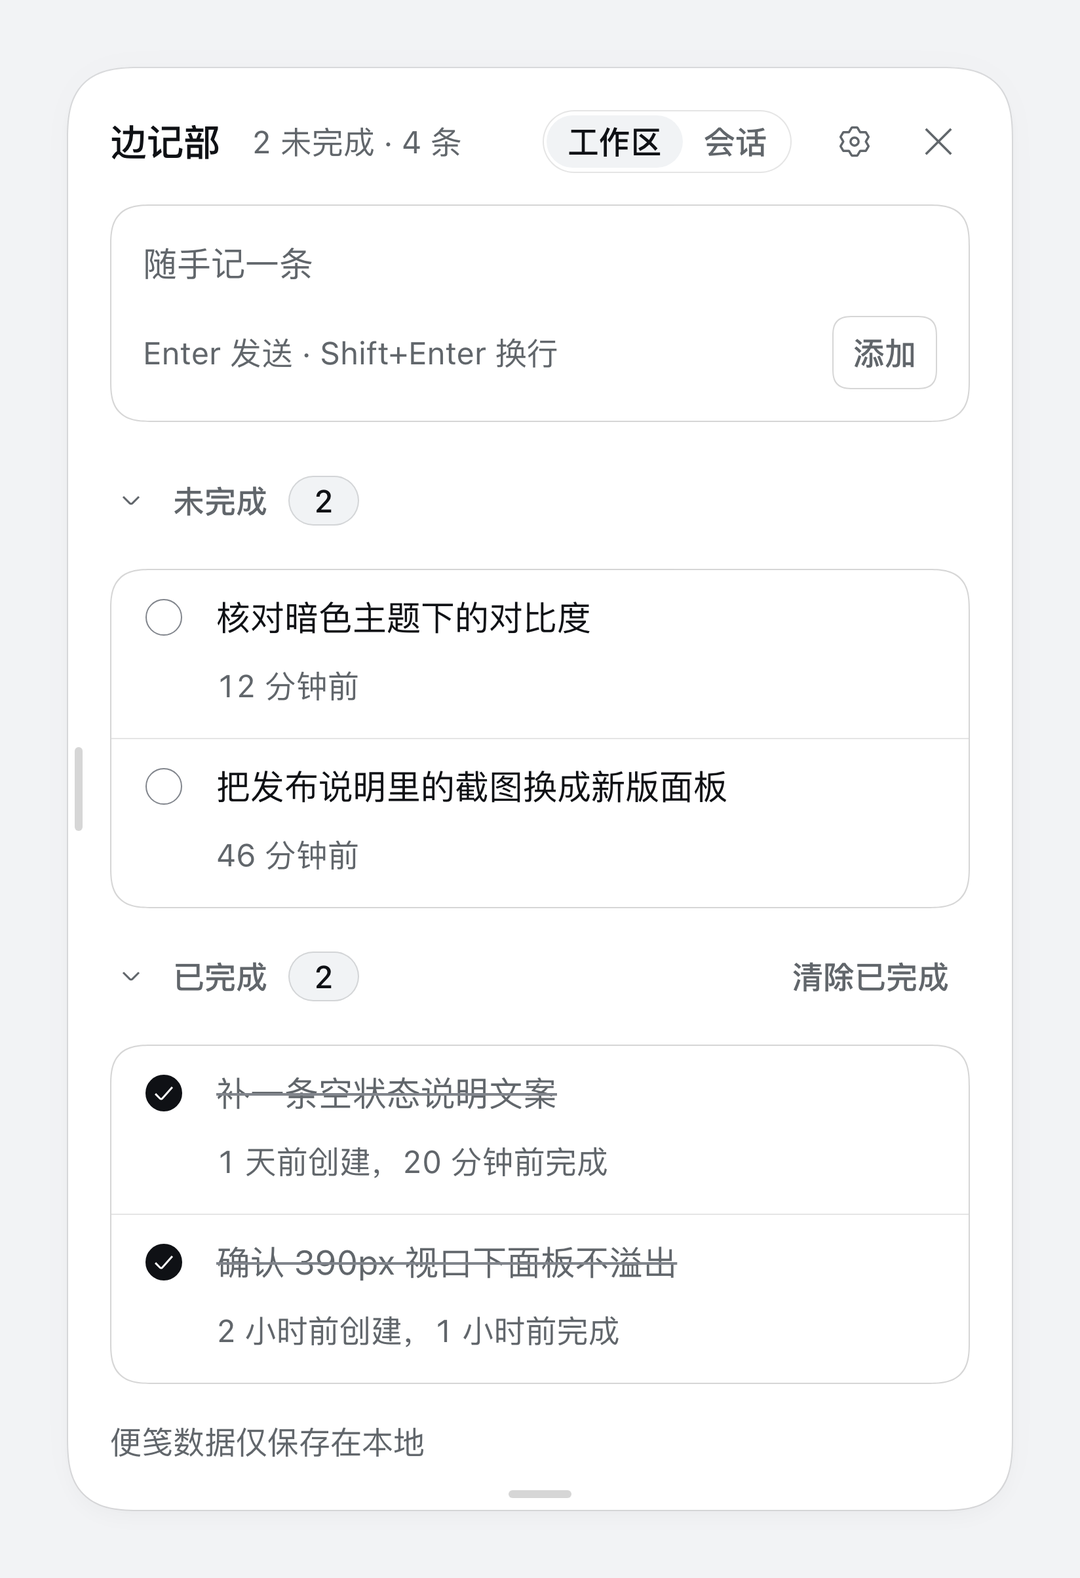
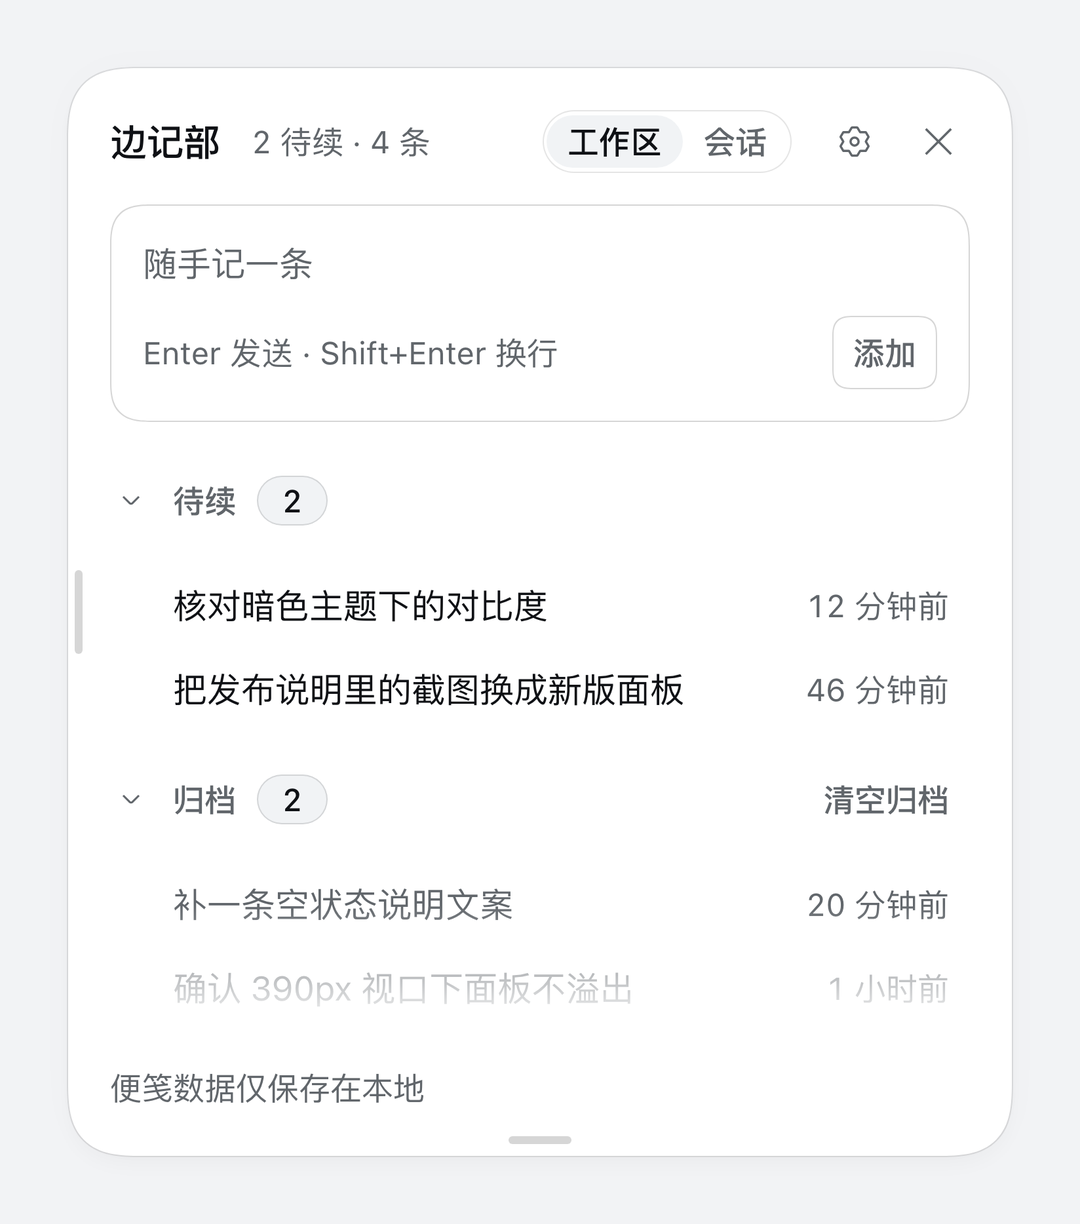
docs: refresh screenshots for the prefix-free settings card

diff --git a/docs/screenshot-sop.md b/docs/screenshot-sop.md
@@ -81,10 +81,10 @@ npm test
 
 | 状态 | 触发方式 | 面板高度 |
 | --- | --- | --- |
-| `panel` | 打开面板，展开「待续」「归档」，列表滚到顶 | 550 |
-| `settings` | 先折叠两个分区，再点标题右侧设置按钮 | 638 |
-| `actions` | 鼠标移到第一条便笺上，显示把手与退回/复制/递入对话 | 550 |
-| `clear` | 点「清空归档」，出现二次确认条 | 603 |
+| `panel` | 打开面板，展开「待续」「归档」，列表滚到顶 | 415 |
+| `settings` | 先折叠两个分区，再点标题右侧设置按钮 | 506 |
+| `actions` | 鼠标移到第一条便笺上，显示把手与退回/复制/递入对话 | 415 |
+| `clear` | 点「清空归档」，出现二次确认条 | 468 |
 | `empty` | 临时清空两个便笺 store（会话 + 工作区）并刷新，打开面板 | 381 |
 
 1.1.0 起便笺可以存在两个地方：会话记录（`dsh.aside-note`）与同工作区共享的清单（`dsh.aside-note.workspaces`）。面板默认停在**工作区**，所以演示便笺由 `bootstrap.mjs` 写进工作区 store；页脚在两种范围下都只写「便笺数据仅保存在本地」，范围看标题下方的「工作区 / 会话」切换。`lib/notes.mjs` 因此对两个 store 一起重锚时间、一起清空（空状态）再原样恢复；改便笺内容仍然只改 `NOTES` 这一处。

diff --git a/CHANGELOG-OPS.md b/CHANGELOG-OPS.md
@@ -16,8 +16,7 @@
 ## next-released
 
 - **文档：** README（中英）、架构说明、面板 UI 规则与截图 SOP 改用「待续 / 归档」「递入对话」「拖动排序」的新描述；递入改为纯文本后同步删掉前缀与列表标记说明；截图脚本不再点击已移除的勾选圈，演示便笺的归档状态直接写入存储。
-- **截图待重拍：** `docs/assets/` 里的功能图与预览图仍是勾选圈与卡片行的旧界面，发版前需按截图 SOP 重拍。
-- **截图：** 设置卡移除「发送快捷键」与「递入对话前缀」后只剩关于区，需重拍全部功能图与整窗预览；录入框提示改为「Enter 发送 · Shift+Enter 换行」（与主会话一致），设置图高度随卡片内容收短。
+- **截图：** 按当前界面重拍明暗两套功能图与整窗预览。设置卡只剩关于区，面板总览、行操作、清空与空态同步更新；截图 SOP 的面板高度改为实测的 415 / 506 / 415 / 468 / 381。演示回复通过 `COPY_CREDENTIALS=1` 在一次性 profile 中生成，临时目录随脚本删除。
 
 ## 0.1.0
 
